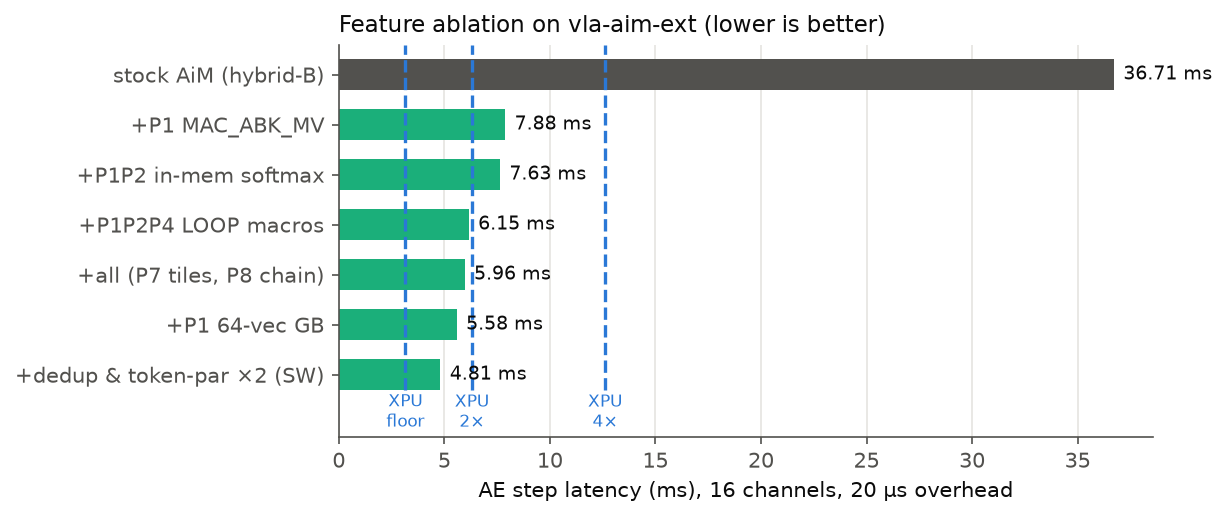
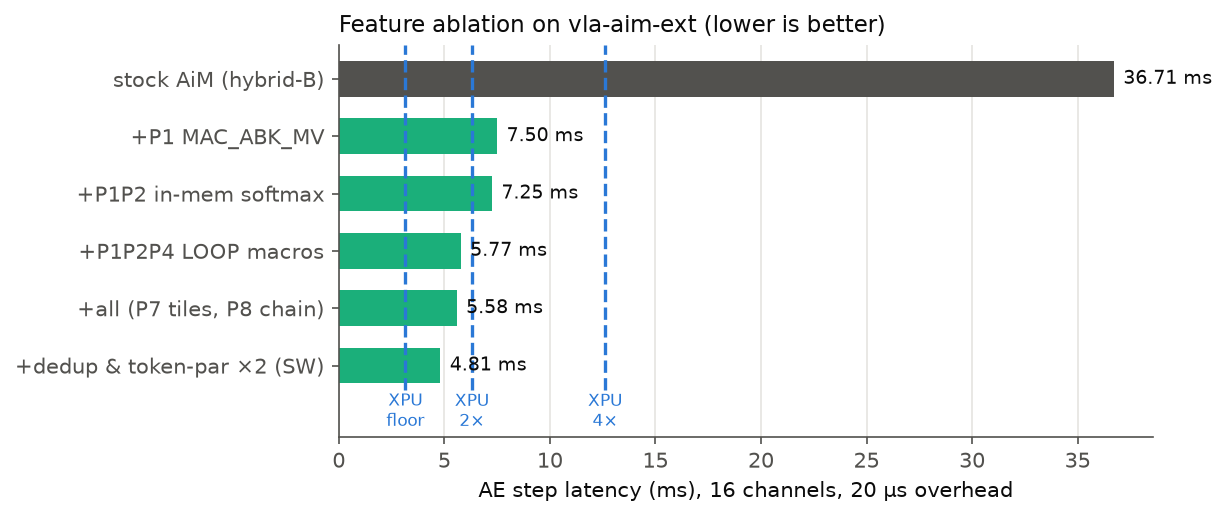
Verification pass: re-baseline ablation tiers, fix roundings and stale claims

Changed region(s): [[0.0, 0.1238, 0.991, 0.8356], [0.2787, 0.0928, 0.8981, 0.1238]]

diff --git a/08_VLA/02_extended_isa/report.html b/08_VLA/02_extended_isa/report.html
@@ -189,7 +189,7 @@
         <tbody>
           <tr><td class="rowlabel">accumulator file</td><td>15 extra 16-bit registers + 4-bit slot mux behind the existing adder tree (&asymp;240 FFs/PU)</td><td><b>trivial</b> &mdash; a few % of PU logic, &laquo;0.1% of die; no timing-path change</td></tr>
           <tr><td class="rowlabel">RD_MACB</td><td>DMA-side slot sequencer; reuses the RDMAC16 read path</td><td><b>trivial</b> &mdash; zero PU change</td></tr>
-          <tr><td class="rowlabel">bigger GB</td><td>2 KB &rarr; <b>32 KB</b> SRAM/channel &mdash; <b>measured sufficient</b>: with dedup + token-parallel, the 16-vector GB gives 4.76 ms/step vs 4.81 with 128 KB</td><td><b>modest</b> &mdash; ~0.1&ndash;0.5 mm&sup2; in DRAM-periphery logic, ~1%-class of an LPDDR die [estimate]; the 64-vector version is unnecessary</td></tr>
+          <tr><td class="rowlabel">bigger GB</td><td>2 KB &rarr; <b>32 KB</b> SRAM/channel &mdash; <b>measured nearly sufficient</b>: with dedup + token-parallel, the 16-vector GB gives 4.91 ms/step vs 4.81 with 128 KB (+2%; corrected from an earlier 4.76 after fixing a dedup fill-validity bug in the trace generator)</td><td><b>modest</b> &mdash; ~0.1&ndash;0.5 mm&sup2; in DRAM-periphery logic, ~1%-class of an LPDDR die [estimate]; the 64-vector version buys only 2%</td></tr>
           <tr><td class="rowlabel">MAC_ABK_MV datapath</td><td>32 B operand latch + 4-bit vector sequencer + <b>multiplier throughput (the one real cost)</b></td><td>a price/performance dial, below</td></tr>
         </tbody>
       </table>
@@ -198,8 +198,8 @@
       <table>
         <thead><tr><th>PU option</th><th>Extra multiplier area</th><th class="num">MV occupancy</th><th class="num">AE step</th><th class="num">vs stock</th><th class="num">vs XPU-2&times;</th></tr></thead>
         <tbody>
-          <tr><td class="rowlabel">existing 16-lane array, 300&ndash;500 MHz PU (Aquabolt-class clock)</td><td>zero</td><td class="num">~16 cycles</td><td class="num">7.45 ms</td><td class="num">4.9&times;</td><td class="num">0.84&times;</td></tr>
-          <tr><td class="rowlabel">existing array @ 1 GHz (SK&rsquo;s MAC clock)</td><td>zero</td><td class="num">~8 cycles</td><td class="num">5.69 ms</td><td class="num">6.5&times;</td><td class="num">1.11&times;</td></tr>
+          <tr><td class="rowlabel">existing 16-lane array, 300&ndash;500 MHz PU (Aquabolt-class clock)</td><td>zero</td><td class="num">~16 cycles</td><td class="num">7.48 ms</td><td class="num">4.9&times;</td><td class="num">0.84&times;</td></tr>
+          <tr><td class="rowlabel">existing array @ 1 GHz (SK&rsquo;s MAC clock)</td><td>zero</td><td class="num">~8 cycles</td><td class="num">5.70 ms</td><td class="num">6.4&times;</td><td class="num">1.11&times;</td></tr>
           <tr><td class="rowlabel"><b>2&times; multiplier arrays @ 1 GHz (headline design)</b></td><td>~2&times; PU multiplier area</td><td class="num">4 cycles</td><td class="num"><b>4.81 ms</b></td><td class="num"><b>7.6&times;</b></td><td class="num"><b>1.31&times;</b></td></tr>
         </tbody>
       </table>
@@ -250,7 +250,7 @@ AF_SCALED 0xffff              <span class="c"># x * (1/sum) applied at context o
     <section class="card" id="rest">
       <h2><span class="num">4</span>P4, P3, P7, P8 &mdash; the supporting cast</h2>
       <h3>P4 &mdash; <code class="k">LOOP n &hellip; ENDLOOP</code> controller macros</h3>
-      <p>Samsung&rsquo;s HBM-PIM stores micro-kernels in a command register file and replays them with a zero-cycle JUMP; we add the trace-level equivalent: the controller expands a buffered ISR block n times with <b>zero per-iteration host issue</b>. Command issue timing is unchanged by design (the DMA still paces one command per cycle, exactly as a controller draining its macro buffer would) &mdash; verified: a 10&times;-unrolled body and its LOOP form simulate to the identical 6,644 cycles. What changes: a layer shrinks from 56.6 k host ISRs to 8.5 k (6.9&times;), launch overhead amortizes once per layer instead of once per host segment, and a self-running denoising step (with an Euler MAD at the DMA) becomes plausible.</p>
+      <p>Samsung&rsquo;s HBM-PIM stores micro-kernels in a command register file and replays them with a zero-cycle JUMP; we add the trace-level equivalent: the controller expands a buffered ISR block n times with <b>zero per-iteration host issue</b>. Command issue timing is unchanged by design (the DMA still paces one command per cycle, exactly as a controller draining its macro buffer would) &mdash; verified: a 10&times;-unrolled body and its LOOP form simulate to the identical 6,644 cycles. What changes: a layer shrinks from 56.6 k host ISRs to ~3.7 k (15&times;), launch overhead amortizes once per layer instead of once per host segment, and a self-running denoising step (with an Euler MAD at the DMA) becomes plausible.</p>
       <h3>P3 &mdash; per-channel mode partition (CFR 3)</h3>
       <p>A 32-bit mask CFR marks each channel AiM-mode or conventional-mode, scoping Part II&rsquo;s mutual exclusion to within a partition. Its value is not layer latency &mdash; it is the <b>enabler for &sect;8</b>: streaming next-observation KV into masked channels while the others denoise, and letting the XPU use idle AiM capacity as ordinary memory.</p>
       <h3>P7 &mdash; <code class="k">WR_TILE</code> descriptors</h3>
@@ -272,7 +272,7 @@ AF_SCALED 0xffff              <span class="c"># x * (1/sum) applied at context o
     <section class="card" id="ablation">
       <h2><span class="num">6</span>Ablation: what each feature buys, and why</h2>
       <figure>
-        <img src="assets/phase6_ablation.png" alt="Horizontal bar chart of Action Expert step latency at 16 channels: stock AiM 36.71 ms; +P1 MAC_ABK_MV 7.88; +P1P2 in-memory softmax 7.63; +P1P2P4 LOOP macros 6.15; +all with P7 tiles and P8 chain 5.96; +P1 64-vector GB 5.58; +dedup and token-parallel x2 software scheduling 4.81. Reference lines: XPU floor 3.15, XPU 2x 6.30, XPU 4x 12.61.">
+        <img src="assets/phase6_ablation.png" alt="Horizontal bar chart of Action Expert step latency at 16 channels: stock AiM 36.71 ms; +P1 MAC_ABK_MV 7.50; +P1P2 in-memory softmax 7.25; +P1P2P4 LOOP macros 5.77; +all with P7 tiles and P8 chain 5.58; +dedup and token-parallel x2 software scheduling 4.81. Reference lines: XPU floor 3.15, XPU 2x 6.30, XPU 4x 12.61.">
         <figcaption class="cap">Cumulative ablation at Orin memory parity (16 ch, 20 &micro;s launch overhead). The extended ISA crosses below the realistic XPU baseline (6.30 ms) at the P1P2P4 tier and keeps going. What the XPU reference lines mean &mdash; theoretical floor vs. realistic 2&times;/4&times; &mdash; is defined precisely in <a href="../01_stock_aim_offload/report.html#ladder">Part II &sect;7&rsquo;s baseline ladder</a>.</figcaption>
       </figure>
       <div class="scroll">
@@ -280,11 +280,11 @@ AF_SCALED 0xffff              <span class="c"># x * (1/sum) applied at context o
         <thead><tr><th>Tier</th><th class="num">8 ch</th><th class="num">16 ch</th><th class="num">32 ch</th><th>Why it gets better</th></tr></thead>
         <tbody>
           <tr><td class="rowlabel">stock AiM (best mapping)</td><td class="num">68.45</td><td class="num">36.71</td><td class="num">21.73</td><td>Part II baseline: fetch-per-token amortization</td></tr>
-          <tr><td class="rowlabel">+P1 MAC_ABK_MV</td><td class="num">9.62</td><td class="num">7.88</td><td class="num">7.03</td><td>MAC commands &divide;4, blocking reads &divide;16 per drain, weights on the parallel-bank path: the 42%+13%+16% slices collapse</td></tr>
-          <tr><td class="rowlabel">+P2 in-mem softmax</td><td class="num">9.63</td><td class="num">7.63</td><td class="num">6.64</td><td>softmax segment + SYNC gone from every layer; 2.1 MB/layer round trip eliminated</td></tr>
-          <tr><td class="rowlabel">+P4 LOOP macros</td><td class="num">8.15</td><td class="num">6.15</td><td class="num">5.16</td><td>launch overhead once per layer, not per segment; host-ISR stream 6.9&times; smaller</td></tr>
-          <tr><td class="rowlabel">+P7 WR_TILE, +P8 COPY_MACBK</td><td class="num">7.95</td><td class="num">5.96</td><td class="num">4.97</td><td>gate&#8857;up chain stays in banks; h reload (largest single load) disappears</td></tr>
-          <tr><td class="rowlabel">+P1 enlarged GB (64 vectors)</td><td class="num">7.58</td><td class="num">5.58</td><td class="num">4.59</td><td>all 51 tokens resident at once: activation fills once per op, not per 16-token tile</td></tr>
+          <tr><td class="rowlabel">+P1 MAC_ABK_MV</td><td class="num">9.24</td><td class="num">7.50</td><td class="num">6.66</td><td>MAC commands &divide;4, blocking reads &divide;16 per drain, weights on the parallel-bank path: the 42%+13%+16% slices collapse</td></tr>
+          <tr><td class="rowlabel">+P2 in-mem softmax</td><td class="num">9.25</td><td class="num">7.25</td><td class="num">6.27</td><td>softmax segment + SYNC gone from every layer; 2.1 MB/layer round trip eliminated</td></tr>
+          <tr><td class="rowlabel">+P4 LOOP macros</td><td class="num">7.77</td><td class="num">5.77</td><td class="num">4.79</td><td>launch overhead once per layer, not per segment; host-ISR stream 15&times; smaller</td></tr>
+          <tr><td class="rowlabel">+P7 WR_TILE, +P8 COPY_MACBK</td><td class="num">7.58</td><td class="num">5.58</td><td class="num">4.59</td><td>gate&#8857;up chain stays in banks; h reload (largest single load) disappears</td></tr>
+          <tr><td class="rowlabel">+P1 enlarged GB (64 vectors)</td><td class="num">7.58</td><td class="num">5.58</td><td class="num">4.59</td><td>no further gain by itself under the final fill-persistent emission &mdash; GB capacity pays off only with dedup + token-parallel (&sect;7: 4.81 with 128 KB vs 4.91 with 32 KB)</td></tr>
           <tr><td class="rowlabel"><b>+dedup + token-parallel &times;2 (SW)</b></td><td class="num">7.72</td><td class="num"><b>4.81</b></td><td class="num"><b>3.38</b></td><td>&sect;7 below</td></tr>
         </tbody>
       </table>
@@ -401,7 +401,7 @@ AF_SCALED 0xffff              <span class="c"># x * (1/sum) applied at context o
 
       <h3>What makes a baseline fair</h3>
       <ul class="notes">
-        <li><b>What a fair baseline is NOT: more LPDDR.</b> The XPU shares the memory system, and its floor scales perfectly with channels (32 ch &rArr; 1.57 ms) while the AiM curve scales sub-linearly &mdash; adding channels helps the baseline more than the design. The legitimate framings are the three-tier baseline (vs measured 543 ms stack &rArr; <b>28&times;</b>; vs realistic 2&times; &rArr; <b>1.31&times;</b>; vs theoretical floor &rArr; 0.65&times; at 16 ch, 0.93&times; at 32 ch &mdash; rung definitions in <a href="../01_stock_aim_offload/report.html#ladder">Part II &sect;7</a>), energy &amp; EDP (above), and iso-platform (same channels, plain vs AiM LPDDR; marginal cost = PIM die area).</li>
+        <li><b>What a fair baseline is NOT: more LPDDR.</b> The XPU shares the memory system, and its floor scales perfectly with channels (32 ch &rArr; 1.57 ms) while the AiM curve scales sub-linearly &mdash; adding channels helps the baseline more than the design. The legitimate framings are the three-tier baseline (vs measured 543 ms stack &rArr; <b>28&times;</b>; vs realistic 2&times; &rArr; <b>1.31&times;</b>; vs theoretical floor &rArr; 0.66&times; at 16 ch, 0.93&times; at 32 ch &mdash; rung definitions in <a href="../01_stock_aim_offload/report.html#ladder">Part II &sect;7</a>), energy &amp; EDP (above), and iso-platform (same channels, plain vs AiM LPDDR; marginal cost = PIM die area).</li>
         <li><b>Iso-cost scale-down (Orin NX, 102.4 GB/s = 8 channels):</b> NX AE floor 6.30 ms, realistic 2&times; 12.61 ms. Our best 8-channel config (7.58 ms, 64-vec GB; token-parallel is counter-productive at 8 ch) is <b>1.66&times; faster than the realistic NX baseline</b> and matches AGX-class realistic latency on a ~40%-cost module &mdash; with the AE hidden behind the VLM under stale-KV overlap, which an XPU-only NX cannot do.</li>
       </ul>
 

diff --git a/08_VLA/03_deployment_platforms/report.html b/08_VLA/03_deployment_platforms/report.html
@@ -139,7 +139,7 @@
         <tbody>
           <tr><td class="rowlabel">measured stack</td><td class="num">n/a</td><td class="num"><b>28.3&times; / 24.3&times;</b> (136 ms, 3335 mJ)</td><td class="num"><b>7.5&times; / 11.9&times;</b> (36 ms, 1633 mJ)</td></tr>
           <tr><td class="rowlabel">compiled stack (semi-measured)</td><td class="num">n/a</td><td class="num">n/a (not reported)</td><td class="num"><b>&asymp;5.0&times; / &asymp;8&times;</b> (&asymp;24 ms, &asymp;1094 mJ)</td></tr>
-          <tr><td class="rowlabel">realistic 4&times;</td><td class="num">3.33&times; / 3.55&times; (25.2 ms, 473 mJ)</td><td class="num">2.62&times; / 2.53&times; (12.6 ms, 347 mJ)</td><td class="num">1.96&times; / 3.34&times; (9.45 ms, 459 mJ)</td></tr>
+          <tr><td class="rowlabel">realistic 4&times;</td><td class="num">3.33&times; / 3.55&times; (25.2 ms, 473 mJ)</td><td class="num">2.62&times; / 2.53&times; (12.6 ms, 347 mJ)</td><td class="num">1.97&times; / 3.34&times; (9.45 ms, 459 mJ)</td></tr>
           <tr><td class="rowlabel">realistic 2&times;</td><td class="num"><b>1.66&times; / 1.93&times;</b> (12.6 ms, 257 mJ)</td><td class="num">1.31&times; / 1.41&times; (6.30 ms, 194 mJ)</td><td class="num">0.98&times; / <b>1.82&times;</b> (4.73 ms, 251 mJ)</td></tr>
           <tr><td class="rowlabel">theoretical floor</td><td class="num">0.83&times; / 1.12&times; (6.30 ms, 149 mJ)</td><td class="num">0.65&times; / 0.86&times; (3.15 ms, 118 mJ)</td><td class="num">0.49&times; / 1.06&times; (2.36 ms, 146 mJ)</td></tr>
         </tbody>
